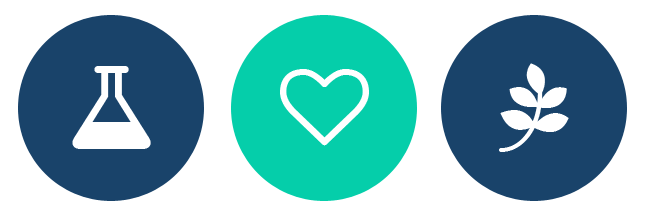
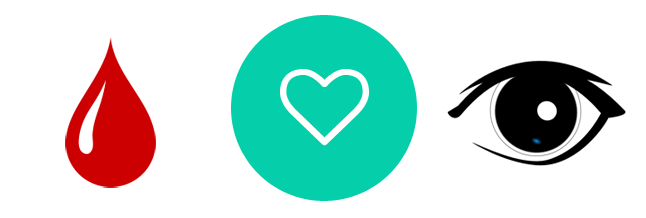
Features

diff --git a/index.html b/index.html
@@ -130,11 +130,11 @@ License URL: http://creativecommons.org/licenses/by/3.0/
    	   	 	<div class="container">
    	   	 		<h2>Our Vision</h2>
    	   	 		<p>Everyone's Personal Care Taker</p>
-   	   	 		<!--<div class="row">
+   	   	 		<div class="row">
 	   	   	 		<div class="col-md-4 service_box">
 		  				<i class="icon1"> </i>
-		  				<h3><a href='#'>Resourceful</a></h3>
-		  				<p>Ut wisi enim ad minim veniam, quis nostrud exerci tation ullamcorper suscipit lobortis nisl ut aliquip ex ea commodo</p>
+		  				<h3><a href='#'>Blood Donation</a></h3>
+		  				<p>Give Blood. Give Life.We are 100% that our blood donation feature will help millions in India.</p>
 		  			</div>
 		  			<div class="col-md-4 service_box">
 		  				<i class="icon2"> </i>
@@ -143,10 +143,10 @@ License URL: http://creativecommons.org/licenses/by/3.0/
 		  			</div>
 		  			<div class="col-md-4 service_box">
 		  				<i class="icon3"> </i>
-		  				<h3><a href='#'>Natural</a></h3>
-		  				<p>Ut wisi enim ad minim veniam, quis nostrud exerci tation ullamcorper suscipit lobortis nisl ut aliquip ex ea commodo</p>
+		  				<h3><a href='#'>Eye Donation</a></h3>
+		  				<p>We are 100% that our eye donation feature will help millions in India who faces corneal blindness.From Blindness to the world of "VIBGYOR".</p>
 		  			</div>
-		  		</div> -->
+		  		</div>
    	   	 	</div>
    	   	 </div>
    	   	 <div class="access">
